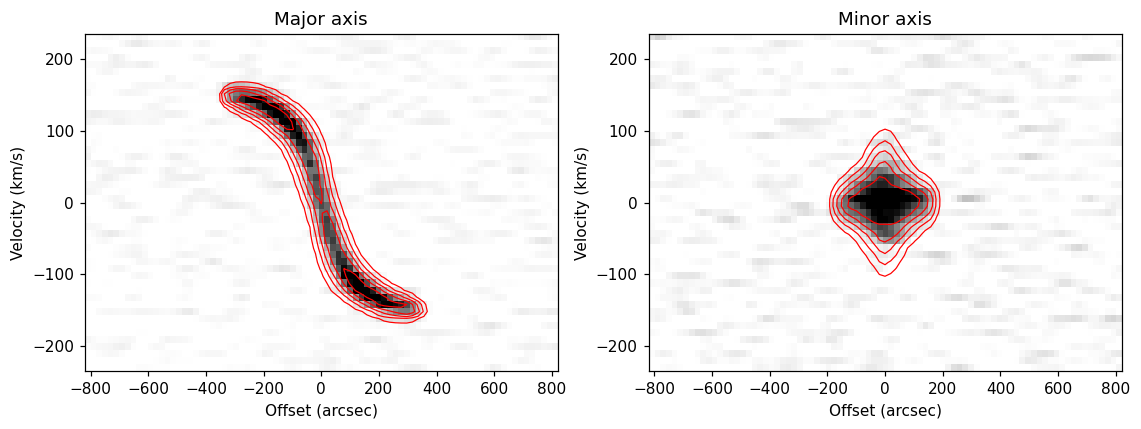
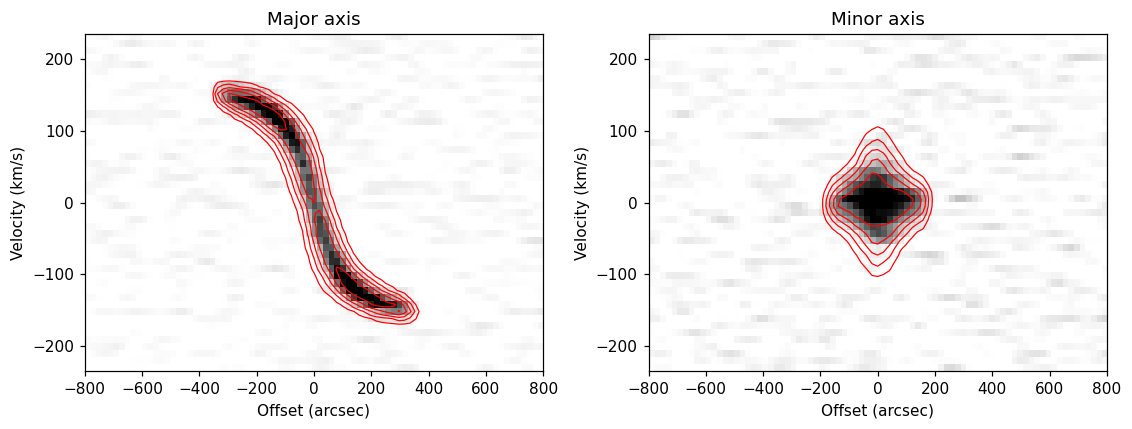
Simulated datacubes: INC and PA scatter over 20 noise seeds, no rotation-curve section
The page quotes the INC and PA of the CLASSIC fit of seed 1 (62.3 and 39.7 deg)
together with their scatter over seeds 1-20 (INC 60.9 +- 0.9, PA 40.05 +- 0.26;
with rings one beam wide 60.6 +- 0.8 and 40.1 +- 0.3). The section "Fitted and
true rotation curve" and its figure simulated_rc.png are dropped. make_figures.py
prints the scatter instead of drawing that figure, and simulated_pv.png is remade.

diff --git a/docs/scripts/make_figures.py b/docs/scripts/make_figures.py
@@ -445,36 +445,21 @@ def fig_simulated():
     s, radii, vrot = _simulate(1)
     res = _fit_sim(s, radii, flagerrors=True)
     t = res.rings
-    fig, axs = plt.subplots(1, 2, figsize=(9, 3.8))
-    err = lambda k: [-np.asarray(t[f"e_{k}1"]), np.asarray(t[f"e_{k}2"])]
-    runs = []
-    for seed in range(2, 22):
-        s2, _, _ = _simulate(seed)
-        r2 = _fit_sim(s2, radii)
-        runs.append((np.asarray(r2.rings["vrot"]), np.asarray(r2.rings["vdisp"])))
-        for ax, y in zip(axs, runs[-1]):
-            ax.plot(radii, y, color="0.8", lw=0.8, zorder=1)
-    for ax, k, true, lab in zip(axs, ("vrot", "vdisp"), (vrot, np.full(len(radii), 10.)),
-                                ("VROT (km/s)", "VDISP (km/s)")):
-        ax.errorbar(radii, t[k], yerr=err(k), fmt="o", ms=3, capsize=2, color="C0", zorder=3, label="fit, seed 1")
-        ax.plot(radii, true, "-", color="C3", zorder=2, label="true")
-        ax.set_xlabel("Radius (arcsec)")
-        ax.set_ylabel(lab)
-    axs[0].plot([], [], color="0.8", label="20 other noise seeds")
-    axs[0].legend(fontsize=8)
-    fig.tight_layout()
-    save(fig, "simulated_rc.png")
-    v = np.array([r[0] for r in runs]); d = np.array([r[1] for r in runs])
-    print("median vrot error % per ring:", np.round(100 * (np.median(v, 0) / vrot - 1), 1))
-    print("scatter vrot % per ring:", np.round(100 * np.std(v, 0) / vrot, 1))
-    print("median vdisp per ring:", np.round(np.median(d, 0), 1))
     print("peak S/N check rms", s.noiserms)
     sa, _, _ = _simulate(1)
     print("REPRODUCIBLE", np.array_equal(s.model.data, sa.model.data))
-    print("seed1 vrot", np.round(np.asarray(t["vrot"]), 1), "vdisp", np.round(np.asarray(t["vdisp"]), 1),
-          "inc", float(t["inc"][0]), "pa", float(t["pa"][0]))
-    print("errors vrot lo", np.round(-np.asarray(t["e_vrot1"]), 1), "hi", np.round(np.asarray(t["e_vrot2"]), 1))
+    print("seed1 inc", float(t["inc"][0]), "pa", float(t["pa"][0]))
     save(res.plot_pv(), "simulated_pv.png")
+    # the scatter of the INC and PA of CLASSIC from the noise alone: seeds 1-20, with the rings of the simulation and
+    # with rings one beam wide (the CLASSIC fit of simulated_methods)
+    for label, rad in (("rings of 30 arcsec", radii), ("rings one beam wide", np.arange(30, 360, 60.))):
+        inc, pa = [], []
+        for seed in range(1, 21):
+            t = _fit_sim(_simulate(seed)[0], rad, flagerrors=True).rings
+            inc.append(float(t["inc"][0]))
+            pa.append(float(t["pa"][0]))
+        print("CLASSIC, %s, seeds 1-20: INC %.2f +- %.2f (%.2f-%.2f), PA %.2f +- %.2f (%.2f-%.2f)"
+              % (label, np.mean(inc), np.std(inc), min(inc), max(inc), np.mean(pa), np.std(pa), min(pa), max(pa)))
 
 
 @figure("simulated_methods")

diff --git a/docs/examples/simulated.md b/docs/examples/simulated.md
@@ -79,8 +79,12 @@ res.rings["radii", "vrot", "vdisp", "inc", "pa"]
 res.plot_pv()
 ```
 
-A cube in memory (an HDU) can be given instead of a file name. The fit takes about one second (a few seconds more with the errors). The fit is reproducible: the same cube and parameters give the same rings. The second stage fixed INC to 59.4° and PA to 40.4° (true values: 60° and 40°). The
-position–velocity diagrams of data and model are the first check:
+A cube in memory (an HDU) can be given instead of a file name. The fit takes about one second (a few seconds more
+with the errors). The fit is reproducible: the same cube and parameters give the same rings. The second stage
+fixed INC to 62.3° and PA to 39.7° (true values: 60° and 40°). That is one realisation of the noise, and the
+inclination of a single fit is good to about a degree: the same fit of 20 cubes that differ only in the noise
+(seeds 1 to 20) gives INC 60.9° ± 0.9° (from 59.4° to 62.6°) and PA 40.05° ± 0.26° (mean and standard deviation).
+The position–velocity diagrams of data and model are the first check:
 
 ```{figure} /figures/simulated_pv.png
 :alt: Position-velocity diagrams of the simulated galaxy, data and model
@@ -122,7 +126,8 @@ of the ring; right: the dispersion. The points of each ring are shifted sideways
 | Time (4 processes) | 2–3 s | 12–13 s | 9–11 min | |
 
 - **Geometry.** From a first guess 5° off, the three methods find INC and PA within 0.4° of the true values.
-  CLASSIC gives no errors for them, as its second stage fixes them.
+  CLASSIC gives no errors for them, as its second stage fixes them; over 20 noise realisations (seeds 1 to 20)
+  its INC is 60.6° ± 0.8° and its PA 40.1° ± 0.3°.
 - **Rotation velocity.** Beyond the first ring, GLOBAL and BAYESIAN are within 1.6 km/s (1%) of the true
   velocity, within their errors; CLASSIC is 1 to 4 km/s too low (−3% and −2% in the second and third rings: the
   bias of CLASSIC, see {doc}`../tasks/3dfit/algorithm`), and its errors are up to twice as large.
@@ -131,46 +136,12 @@ of the ring; right: the dispersion. The points of each ring are shifted sideways
   by 7–8 km/s, CLASSIC above and GLOBAL and BAYESIAN below, and the dispersion of the first two rings is off
   (21–24 km/s in the first; about 4.5 km/s with GLOBAL and BAYESIAN and 14.6 km/s with CLASSIC in the second).
   Beyond them, the dispersion of GLOBAL and BAYESIAN is within 2.5 km/s of the true 10 km/s; that of CLASSIC
-  drops to 1.7 km/s in the last ring, where the mask cuts the wings of the faint lines (see below).
+  drops to 1.7 km/s in the last ring, where the disk is faint: at low S/N the mask cuts the wings of the lines,
+  which biases the dispersion low.
 - **GLOBAL and BAYESIAN** maximise and sample the same likelihood: the best fit of GLOBAL and the medians of
   BAYESIAN differ by less than 0.7σ, and the errors of the Laplace approximation are within 15% of the widths of
   the posterior. GLOBAL takes seconds, BAYESIAN minutes: use GLOBAL to try a setup, and BAYESIAN when the shape
   of the posterior matters. With `seed=1` the sampling is reproducible: two runs gave the same rings.
-
-## Fitted and true rotation curve
-
-The figure compares the first fit above (CLASSIC, with the rings of the simulation) with the input. The grey
-lines are the fits of 20 other noise realisations of the same galaxy (seeds 2 to 21; about 1 s per fit), to see
-the scatter that the noise alone gives. The error bars are those of FLAGERRORS.
-
-```{figure} /figures/simulated_rc.png
-:alt: Fitted and true rotation velocity and velocity dispersion of a simulated galaxy
-
-The fitted rotation velocity and dispersion of the simulated galaxy (blue, with the errors) against the true
-values (red). Grey: 20 fits of other noise realisations.
-```
-
-With these 20 fits, the median difference between the fitted and the true VROT is:
-
-| Ring (arcsec) | 15 | 45 | 75 | 105 | 135 | 165 | 195 | 225 | 255 | 285 | 315 | 345 |
-|---|---|---|---|---|---|---|---|---|---|---|---|---|
-| Median error (%) | 64 | −7.3 | −5.7 | −3.7 | −2.7 | −1.9 | −1.4 | −1.3 | −1.0 | −1.4 | −1.1 | −1.1 |
-| Scatter (%) | 8.1 | 5.1 | 2.3 | 1.0 | 1.1 | 0.8 | 0.6 | 0.5 | 0.4 | 0.8 | 1.3 | 1.5 |
-
-(The scatter is the standard deviation over the 20 fits, in per cent of the true value.) Beyond the second
-ring, VROT is recovered within 6% on average, and within about 2% beyond 165 arcsec, where the bias is
-−1 to −2% and the scatter is 0.4 to 1.5%. The first rings and the dispersion are the weak points:
-
-- The first ring is at 15 arcsec, a quarter of the beam, where the true rotation velocity is only 31 km/s and
-  the beam smears the velocity gradient: the fit is too high (the median is 64% above the true value). The
-  second ring is 7% too low. Rings narrower than the beam are not independent, and the first ones should be
-  read with care.
-- The dispersion is higher than the true 10 km/s in the inner rings (median 19.6, 23.3 and 18.5 km/s in the
-  first three) and lower in the outer ones (6.2 km/s at 315 arcsec, and 1.5 km/s in the last ring, where
-  the density of the disk is low: at low S/N the mask cuts the wings of the lines, which biases the
-  dispersion low). It is the hardest parameter: see the accuracy suite.
-
-The fits are reproducible: running the same cubes again gives the same numbers.
 
 ## The accuracy suite
 
